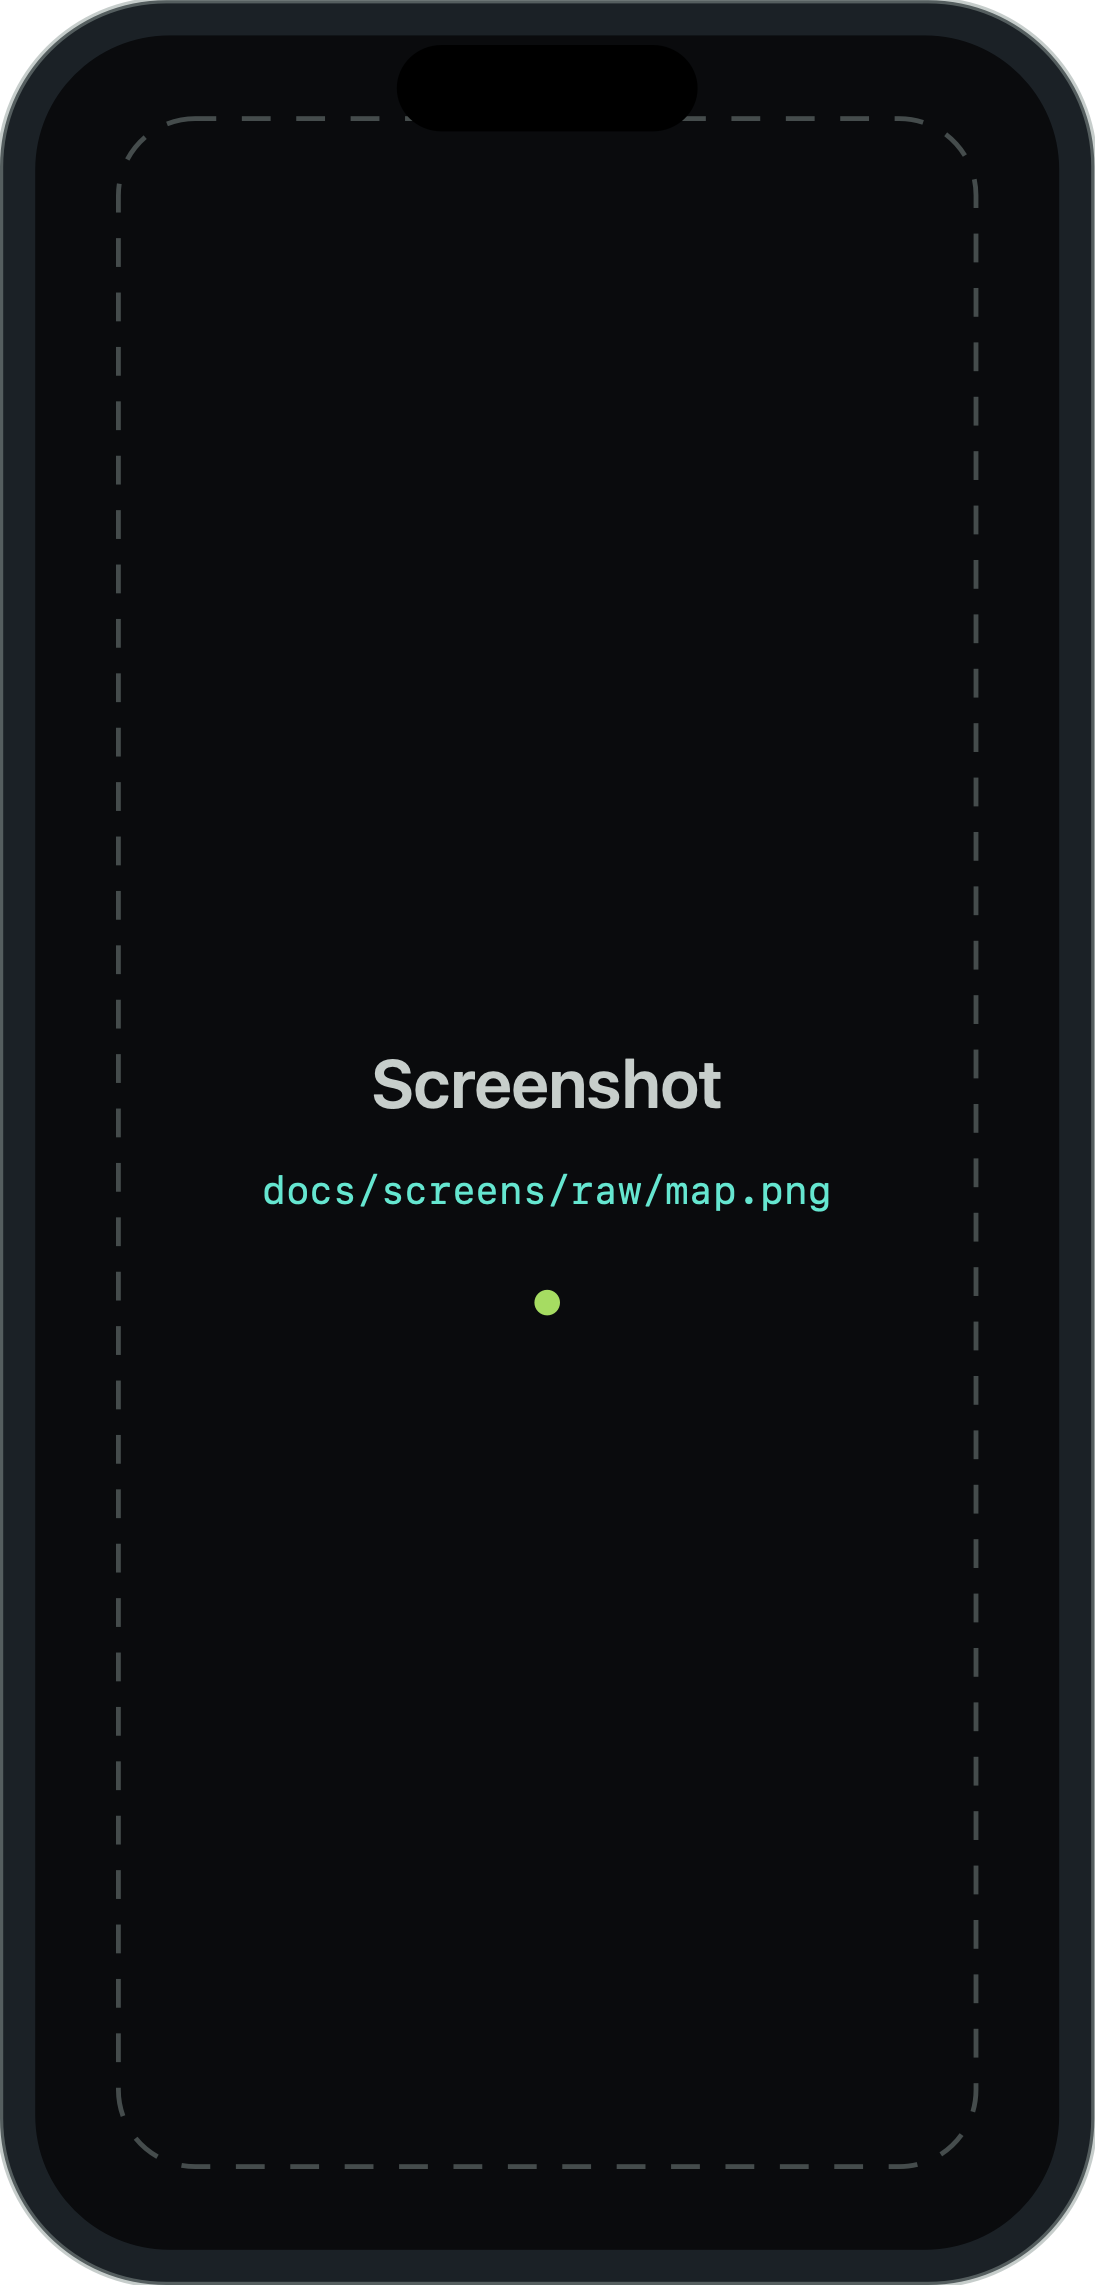
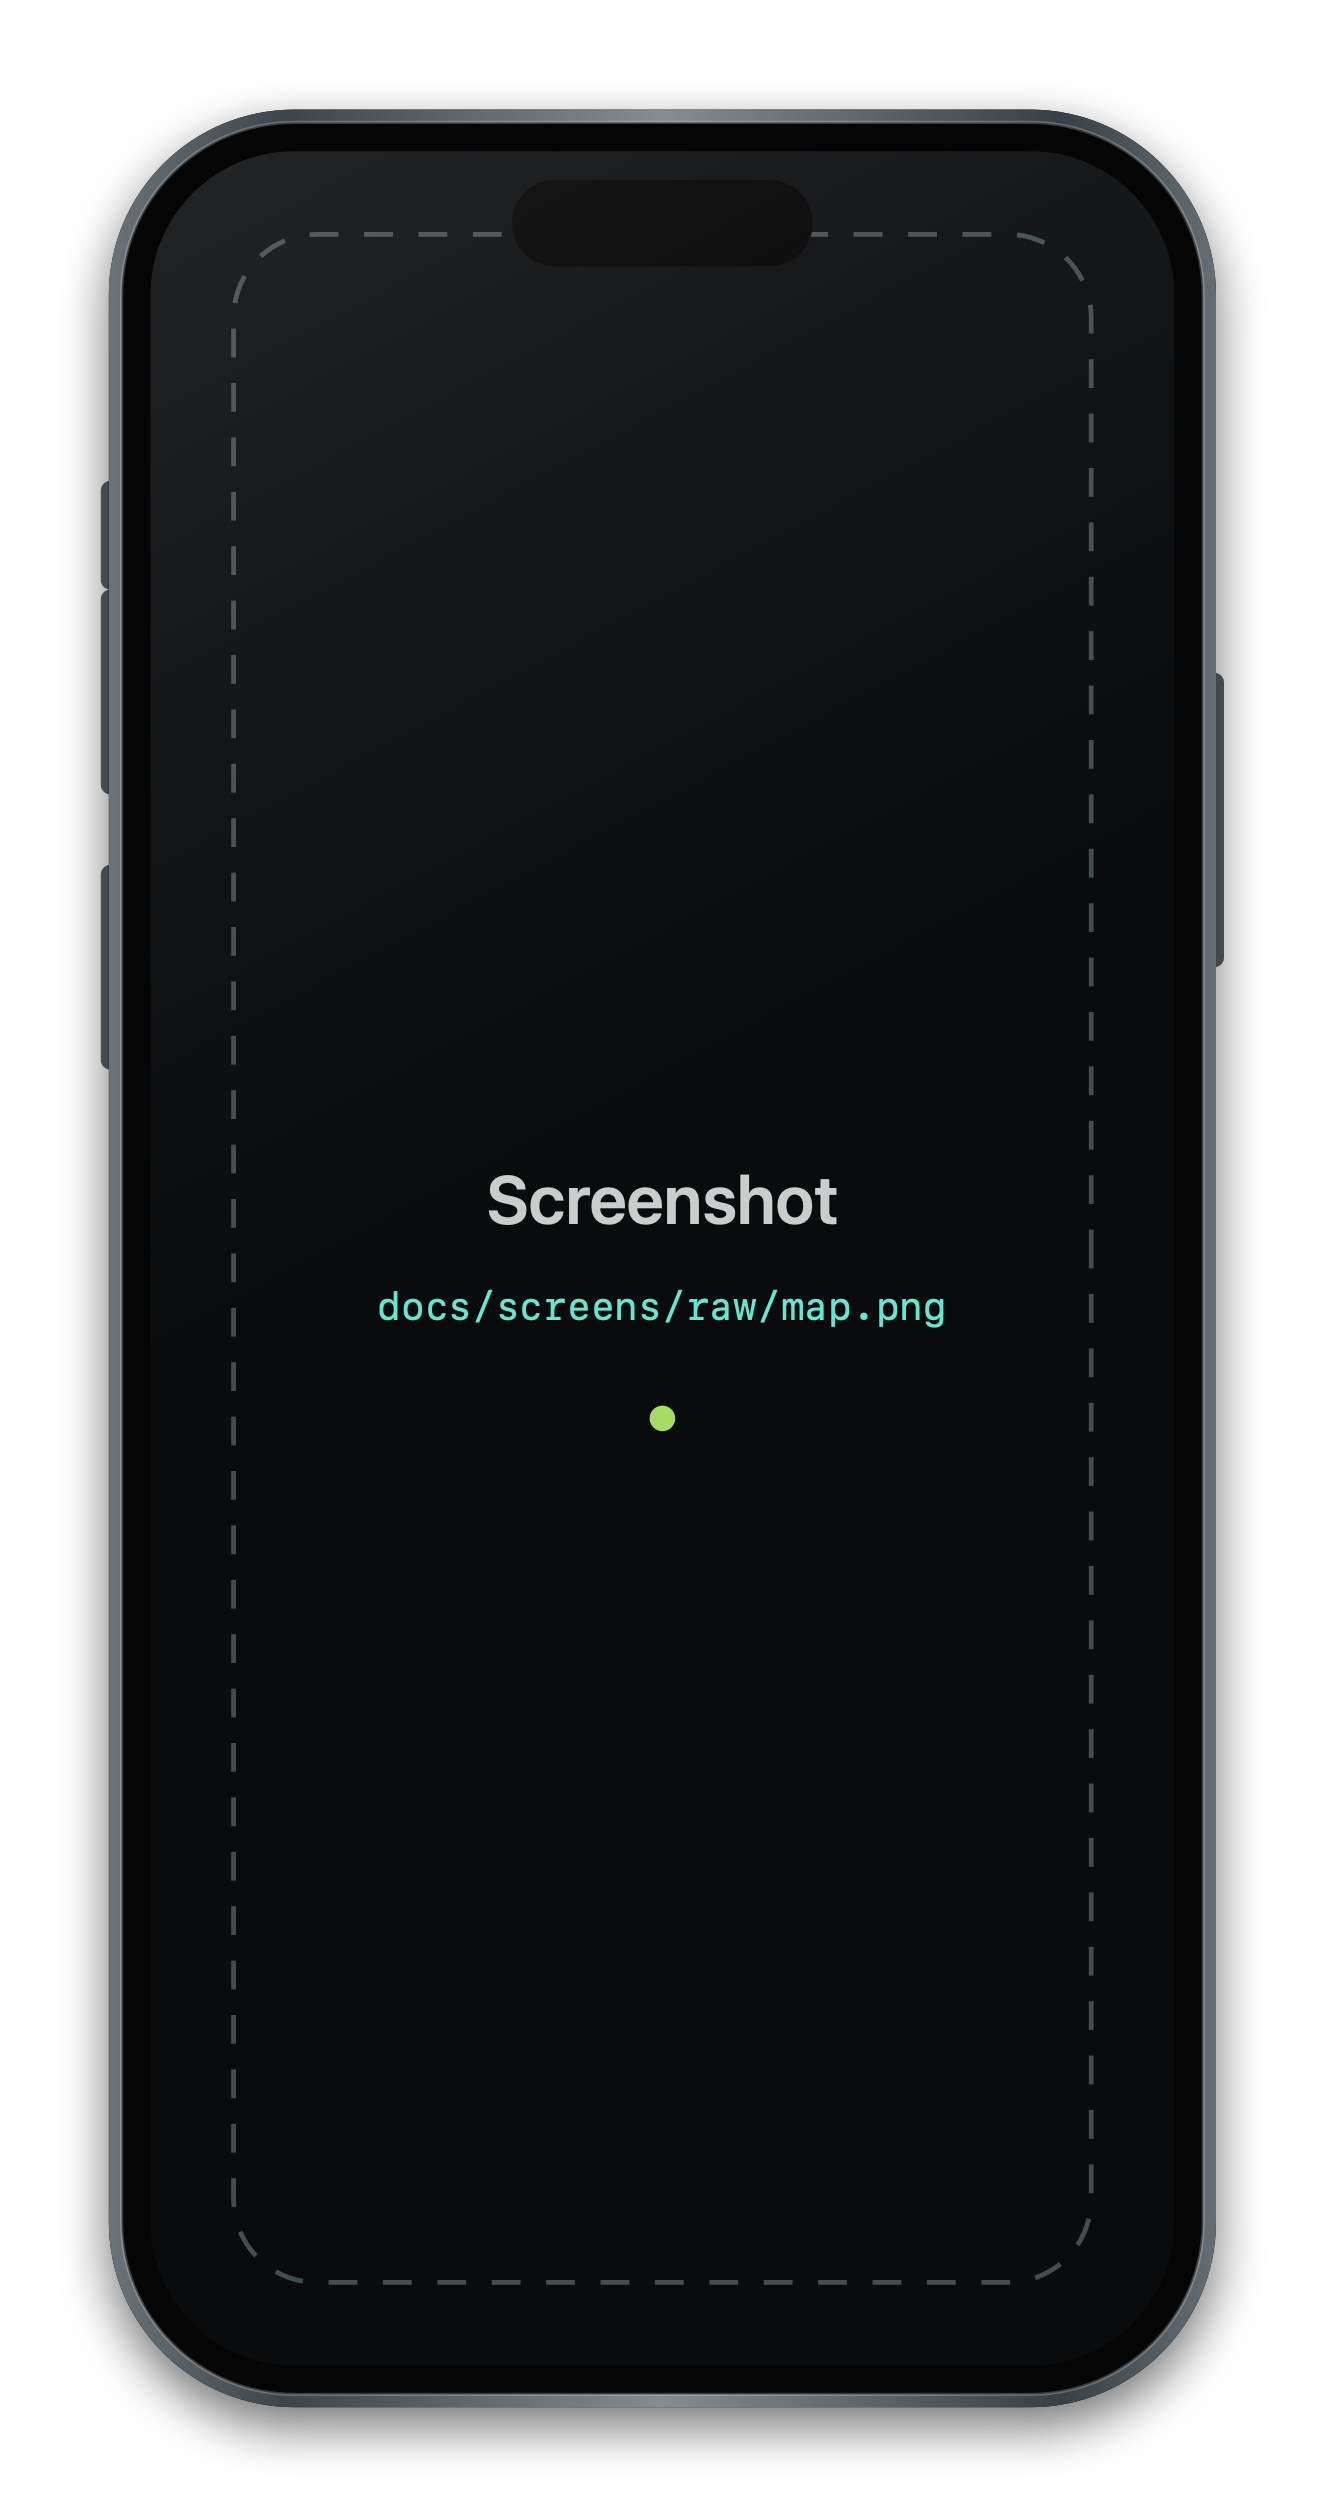
A believable iPhone around the screenshots, and three more diagrams
The frame is now a device rather than a rounded rectangle: a brushed
titanium rail drawn as a gradient with the light along its edges, a black
bezel inside it, the side buttons standing proud of the body, Apple's
continuous corners rather than circular ones, a sheen across the glass and a
shadow under the whole thing. It also carries clear space around itself,
which is what keeps three of them apart in a row without any Markdown
trickery, and it is where the shadow lives.

Spacing: the paragraphs under the driving and mail shots were sitting right
against them; both now have room.

Three more animated pieces, all from the palette: the hour before a class,
banded from "in good time" through "leave by" to "time to go" with a marker
crossing it; mail read on the phone and offered for the day; and two Lock
Screen cards at once, which is the thing the last change made possible and
the hardest to describe in a sentence.

Changed region(s): [[0.0, 0.0, 1.0, 1.0], [0.2484, 0.4661, 0.7452, 0.5282], [0.4658, 0.5593, 0.5279, 0.5904]]

diff --git a/Tools/Screens/frame.swift b/Tools/Screens/frame.swift
@@ -22,7 +22,11 @@ let palette = (
 
 /// The screen, in points. Everything else is measured from it.
 let screen = NSSize(width: 320, height: 692)
-let bezel: CGFloat = 11
+/// The black surround, and the metal rail around that.
+let bezel: CGFloat = 9
+let rail: CGFloat = 4
+/// Clear space around the phone, which holds the shadow and keeps two of these apart on a page.
+let margin: CGFloat = 34
 let scale: CGFloat = 1.6
 let slots = ["map", "now", "ways", "driving", "mail"]
 
@@ -32,30 +36,66 @@ let outFolder = root.appendingPathComponent("docs/screens")
 try? FileManager.default.createDirectory(at: rawFolder, withIntermediateDirectories: true)
 try? FileManager.default.createDirectory(at: outFolder, withIntermediateDirectories: true)
 
+/// A rounded rectangle with Apple's continuous corners, not a circular arc: the difference is
+/// most of what makes a drawn iPhone look drawn.
+func squircle(_ rect: NSRect, radius: CGFloat) -> NSBezierPath {
+    NSBezierPath(cgPath: CGPath(roundedRect: rect, cornerWidth: radius, cornerHeight: radius, transform: nil))
+}
+
 func frame(_ shot: NSImage?, slot: String) -> NSImage {
-    let size = NSSize(width: screen.width + bezel * 2, height: screen.height + bezel * 2)
+    let bodySize = NSSize(width: screen.width + (bezel + rail) * 2, height: screen.height + (bezel + rail) * 2)
+    let size = NSSize(width: bodySize.width + margin * 2, height: bodySize.height + margin * 2)
     let image = NSImage(size: NSSize(width: size.width * scale, height: size.height * scale))
     image.lockFocus()
     guard let context = NSGraphicsContext.current else { image.unlockFocus(); return image }
     context.imageInterpolation = .high
     context.cgContext.scaleBy(x: scale, y: scale)
 
-    // The body sits a shade above the screen it holds, so the phone reads as an object rather
-    // than a black rectangle on a dark page.
-    let body = NSBezierPath(roundedRect: NSRect(origin: .zero, size: size), xRadius: 52, yRadius: 52)
-    NSColor(srgbRed: 0.106, green: 0.129, blue: 0.149, alpha: 1).setFill()
-    body.fill()
-    palette.mist.withAlphaComponent(0.5).setStroke()
-    body.lineWidth = 2
-    body.stroke()
+    let bodyRect = NSRect(x: margin, y: margin, width: bodySize.width, height: bodySize.height)
+    let bodyRadius: CGFloat = 58
+    let body = squircle(bodyRect, radius: bodyRadius)
 
-    let screenRect = NSRect(x: bezel, y: bezel, width: screen.width, height: screen.height)
-    let screenPath = NSBezierPath(roundedRect: screenRect, xRadius: 42, yRadius: 42)
+    // The side buttons sit under the body, so only the part that stands proud of it shows.
+    let buttonColour = NSColor(srgbRed: 0.35, green: 0.38, blue: 0.40, alpha: 1)
+    buttonColour.setFill()
+    for (y, height) in [(bodyRect.maxY - 214, CGFloat(64)), (bodyRect.maxY - 300, CGFloat(64))] {
+        squircle(NSRect(x: bodyRect.minX - 2.5, y: y, width: 6, height: height), radius: 3).fill()
+    }
+    squircle(NSRect(x: bodyRect.minX - 2.5, y: bodyRect.maxY - 150, width: 6, height: 34), radius: 3).fill()
+    squircle(NSRect(x: bodyRect.maxX - 3.5, y: bodyRect.maxY - 268, width: 6, height: 92), radius: 3).fill()
+
+    // The rail: brushed metal, brightest where the light catches its edges.
+    NSGraphicsContext.saveGraphicsState()
+    let shadow = NSShadow()
+    shadow.shadowColor = NSColor.black.withAlphaComponent(0.55)
+    shadow.shadowBlurRadius = 26
+    shadow.shadowOffset = NSSize(width: 0, height: -10)
+    shadow.set()
+    NSColor.black.setFill()
+    body.fill()
+    NSGraphicsContext.restoreGraphicsState()
+
+    let metal = NSGradient(colorsAndLocations:
+        (NSColor(srgbRed: 0.42, green: 0.45, blue: 0.47, alpha: 1), 0.0),
+        (NSColor(srgbRed: 0.24, green: 0.27, blue: 0.29, alpha: 1), 0.16),
+        (NSColor(srgbRed: 0.52, green: 0.55, blue: 0.57, alpha: 1), 0.5),
+        (NSColor(srgbRed: 0.22, green: 0.25, blue: 0.27, alpha: 1), 0.86),
+        (NSColor(srgbRed: 0.40, green: 0.43, blue: 0.45, alpha: 1), 1.0))
+    metal?.draw(in: body, angle: 0)
+
+    // Inside the rail, the black the screen floats in.
+    let bezelRect = bodyRect.insetBy(dx: rail, dy: rail)
+    NSColor(srgbRed: 0.02, green: 0.02, blue: 0.025, alpha: 1).setFill()
+    squircle(bezelRect, radius: bodyRadius - rail).fill()
+
+    let screenRect = NSRect(x: bodyRect.minX + rail + bezel, y: bodyRect.minY + rail + bezel,
+                            width: screen.width, height: screen.height)
+    let screenPath = squircle(screenRect, radius: bodyRadius - rail - bezel)
 
     if let shot {
         NSGraphicsContext.saveGraphicsState()
         screenPath.addClip()
-        // Filled to the screen, keeping the phone's proportions.
+        // Filled to the screen, keeping the capture's proportions.
         let ratio = max(screenRect.width / shot.size.width, screenRect.height / shot.size.height)
         let drawn = NSSize(width: shot.size.width * ratio, height: shot.size.height * ratio)
         shot.draw(in: NSRect(x: screenRect.midX - drawn.width / 2,
@@ -67,7 +107,7 @@ func frame(_ shot: NSImage?, slot: String) -> NSImage {
         screenPath.fill()
 
         // Waiting for a picture: said plainly, in the app's own colours.
-        let dashed = NSBezierPath(roundedRect: screenRect.insetBy(dx: 26, dy: 26), xRadius: 24, yRadius: 24)
+        let dashed = squircle(screenRect.insetBy(dx: 26, dy: 26), radius: 26)
         dashed.setLineDash([9, 8], count: 2, phase: 0)
         dashed.lineWidth = 1.5
         palette.mist.withAlphaComponent(0.45).setStroke()
@@ -84,15 +124,29 @@ func frame(_ shot: NSImage?, slot: String) -> NSImage {
         title.draw(at: NSPoint(x: screenRect.midX - title.size().width / 2, y: screenRect.midY + 6))
         path.draw(at: NSPoint(x: screenRect.midX - path.size().width / 2, y: screenRect.midY - 22))
 
-        // A pulse of the route's green, so even an empty frame belongs to PathOS.
         palette.aurora.withAlphaComponent(0.9).setFill()
         NSBezierPath(ovalIn: NSRect(x: screenRect.midX - 4, y: screenRect.midY - 54, width: 8, height: 8)).fill()
     }
 
-    // The island, drawn over whatever is behind it.
+    // The island.
     NSColor.black.setFill()
-    NSBezierPath(roundedRect: NSRect(x: size.width / 2 - 47, y: size.height - bezel - 30, width: 94, height: 27),
-                 xRadius: 14, yRadius: 14).fill()
+    squircle(NSRect(x: screenRect.midX - 47, y: screenRect.maxY - 36, width: 94, height: 27), radius: 13.5).fill()
+
+    // A sheen across the glass, the one thing that stops a drawn screen looking printed.
+    NSGraphicsContext.saveGraphicsState()
+    screenPath.addClip()
+    let sheen = NSGradient(colorsAndLocations:
+        (NSColor.white.withAlphaComponent(0.10), 0.0),
+        (NSColor.white.withAlphaComponent(0.03), 0.28),
+        (NSColor.clear, 0.45))
+    sheen?.draw(in: screenRect, angle: -62)
+    NSGraphicsContext.restoreGraphicsState()
+
+    // The hairline where the rail meets the glass.
+    NSColor.white.withAlphaComponent(0.22).setStroke()
+    let edge = squircle(bezelRect, radius: bodyRadius - rail)
+    edge.lineWidth = 1
+    edge.stroke()
 
     image.unlockFocus()
     return image

diff --git a/README.md b/README.md
@@ -48,10 +48,14 @@ auto at the far end. Most travel apps will plan the middle. PathOS plans all thr
 -->
 
 <div align="center">
-<img src="docs/screens/map.png" width="30%" alt="The map, with the deck collapsed">
-<img src="docs/screens/now.png" width="30%" alt="Now: where you are, the weather, travel times">
-<img src="docs/screens/ways.png" width="30%" alt="Ways to get there, with every leg and fare">
+<img src="docs/screens/map.png" width="29%" alt="The map, with the deck collapsed">
+&nbsp;&nbsp;&nbsp;
+<img src="docs/screens/now.png" width="29%" alt="Now: where you are, the weather, travel times">
+&nbsp;&nbsp;&nbsp;
+<img src="docs/screens/ways.png" width="29%" alt="Ways to get there, with every leg and fare">
 </div>
+
+<br>
 
 ### The map is the interface
 
@@ -75,8 +79,10 @@ leg's time and what it costs**.
 ### Following a way, turn by turn
 
 <div align="center">
-<img src="docs/screens/driving.png" width="32%" alt="The driving view: the route, the arrow, the turn ahead">
+<img src="docs/screens/driving.png" width="31%" alt="The driving view: the route, the arrow, the turn ahead">
 </div>
+
+<br>
 
 Pick a way and PathOS follows it. On a road leg the map hands over to MapKit's own navigation
 tracking — its puck, its camera, its rotation — with the route drawn on it, the turn ahead in a
@@ -89,6 +95,12 @@ the map leans back in for the last leg.
 
 ### Leaving on time
 
+<div align="center">
+<img src="docs/leaving.svg" alt="The hour before a 9:00 class: in good time, leave by 8:35, leave now" width="100%">
+</div>
+
+<br>
+
 For the next thing today that happens somewhere — a session at Work, or any event with a place —
 PathOS works out when you would have to set off, and says so: quietly within the hour, plainly
 when it is time, and clearly once you would arrive late. On the island, on the Lock Screen, and
@@ -97,8 +109,16 @@ as a notification with the app closed.
 ### Mail that becomes your day
 
 <div align="center">
-<img src="docs/screens/mail.png" width="32%" alt="Mail from several accounts in one list">
+<img src="docs/mail-flow.svg" alt="Mail is read on the phone, offered for your day, and approved by you" width="100%">
 </div>
+
+<br>
+
+<div align="center">
+<img src="docs/screens/mail.png" width="31%" alt="Mail from several accounts in one list">
+</div>
+
+<br>
 
 Connect one Gmail account or several. PathOS reads new mail **on the phone** with Apple
 Intelligence, pulls out the events, deadlines and updates, and offers them for your day — you
@@ -117,6 +137,12 @@ Save where you parked, with photos and tags. Walk away, come back, and PathOS su
 Lock Screen as you approach. Geofenced, so it costs nothing while you are away.
 
 ### A Lock Screen that keeps up
+
+<div align="center">
+<img src="docs/lockscreen.svg" alt="Two Lock Screen cards at once: the pinned context and the journey" width="80%">
+</div>
+
+<br>
 
 Pin the context and the Lock Screen leads with whatever matters now — the session starting in
 twenty minutes, the umbrella you will want, the note you left at this spot, when to leave. Two
